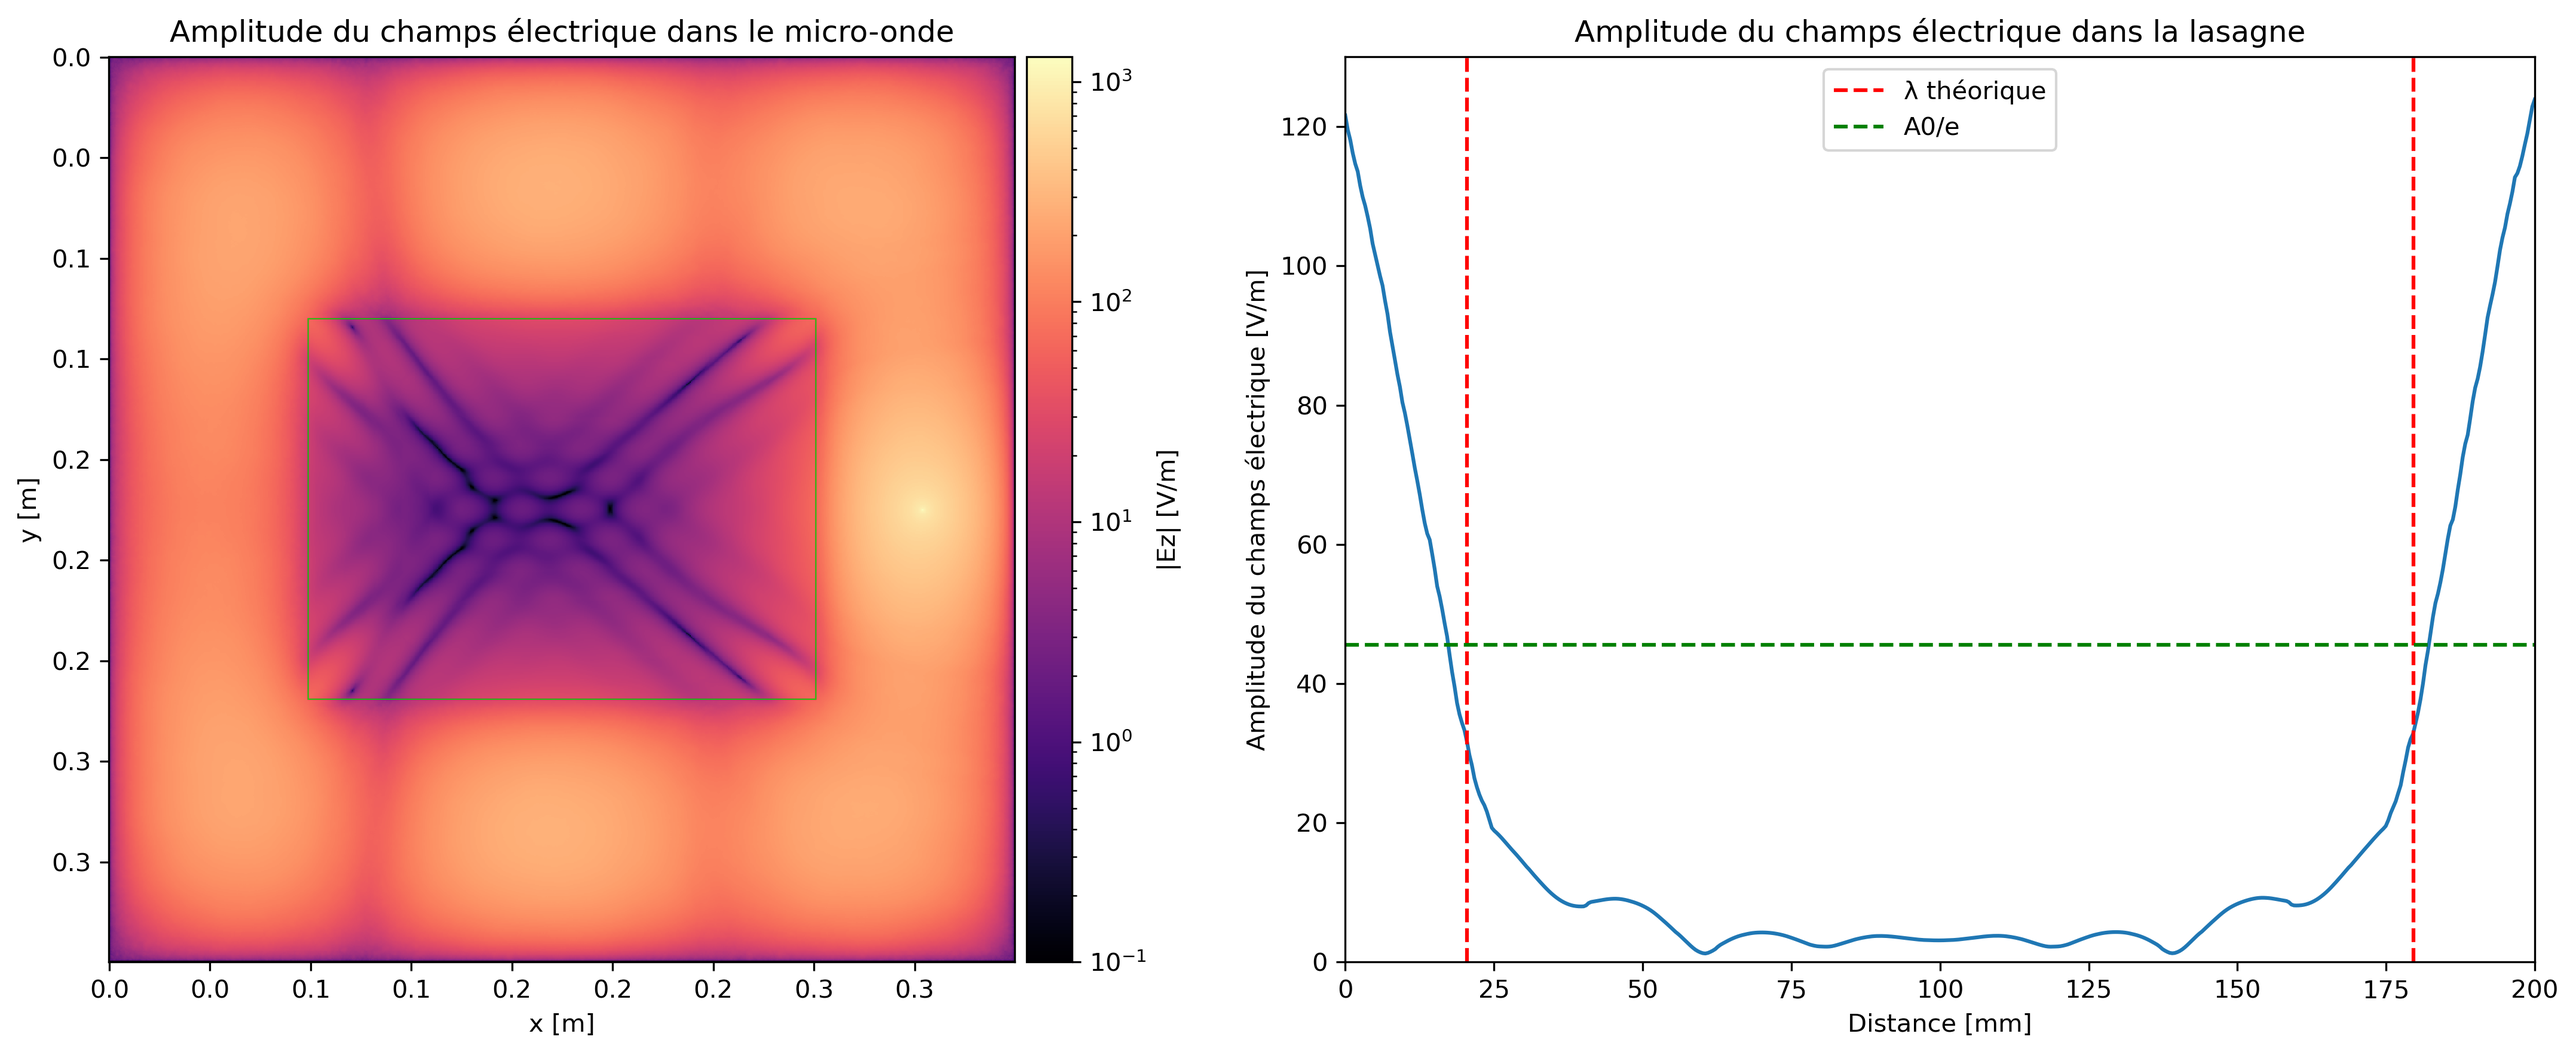
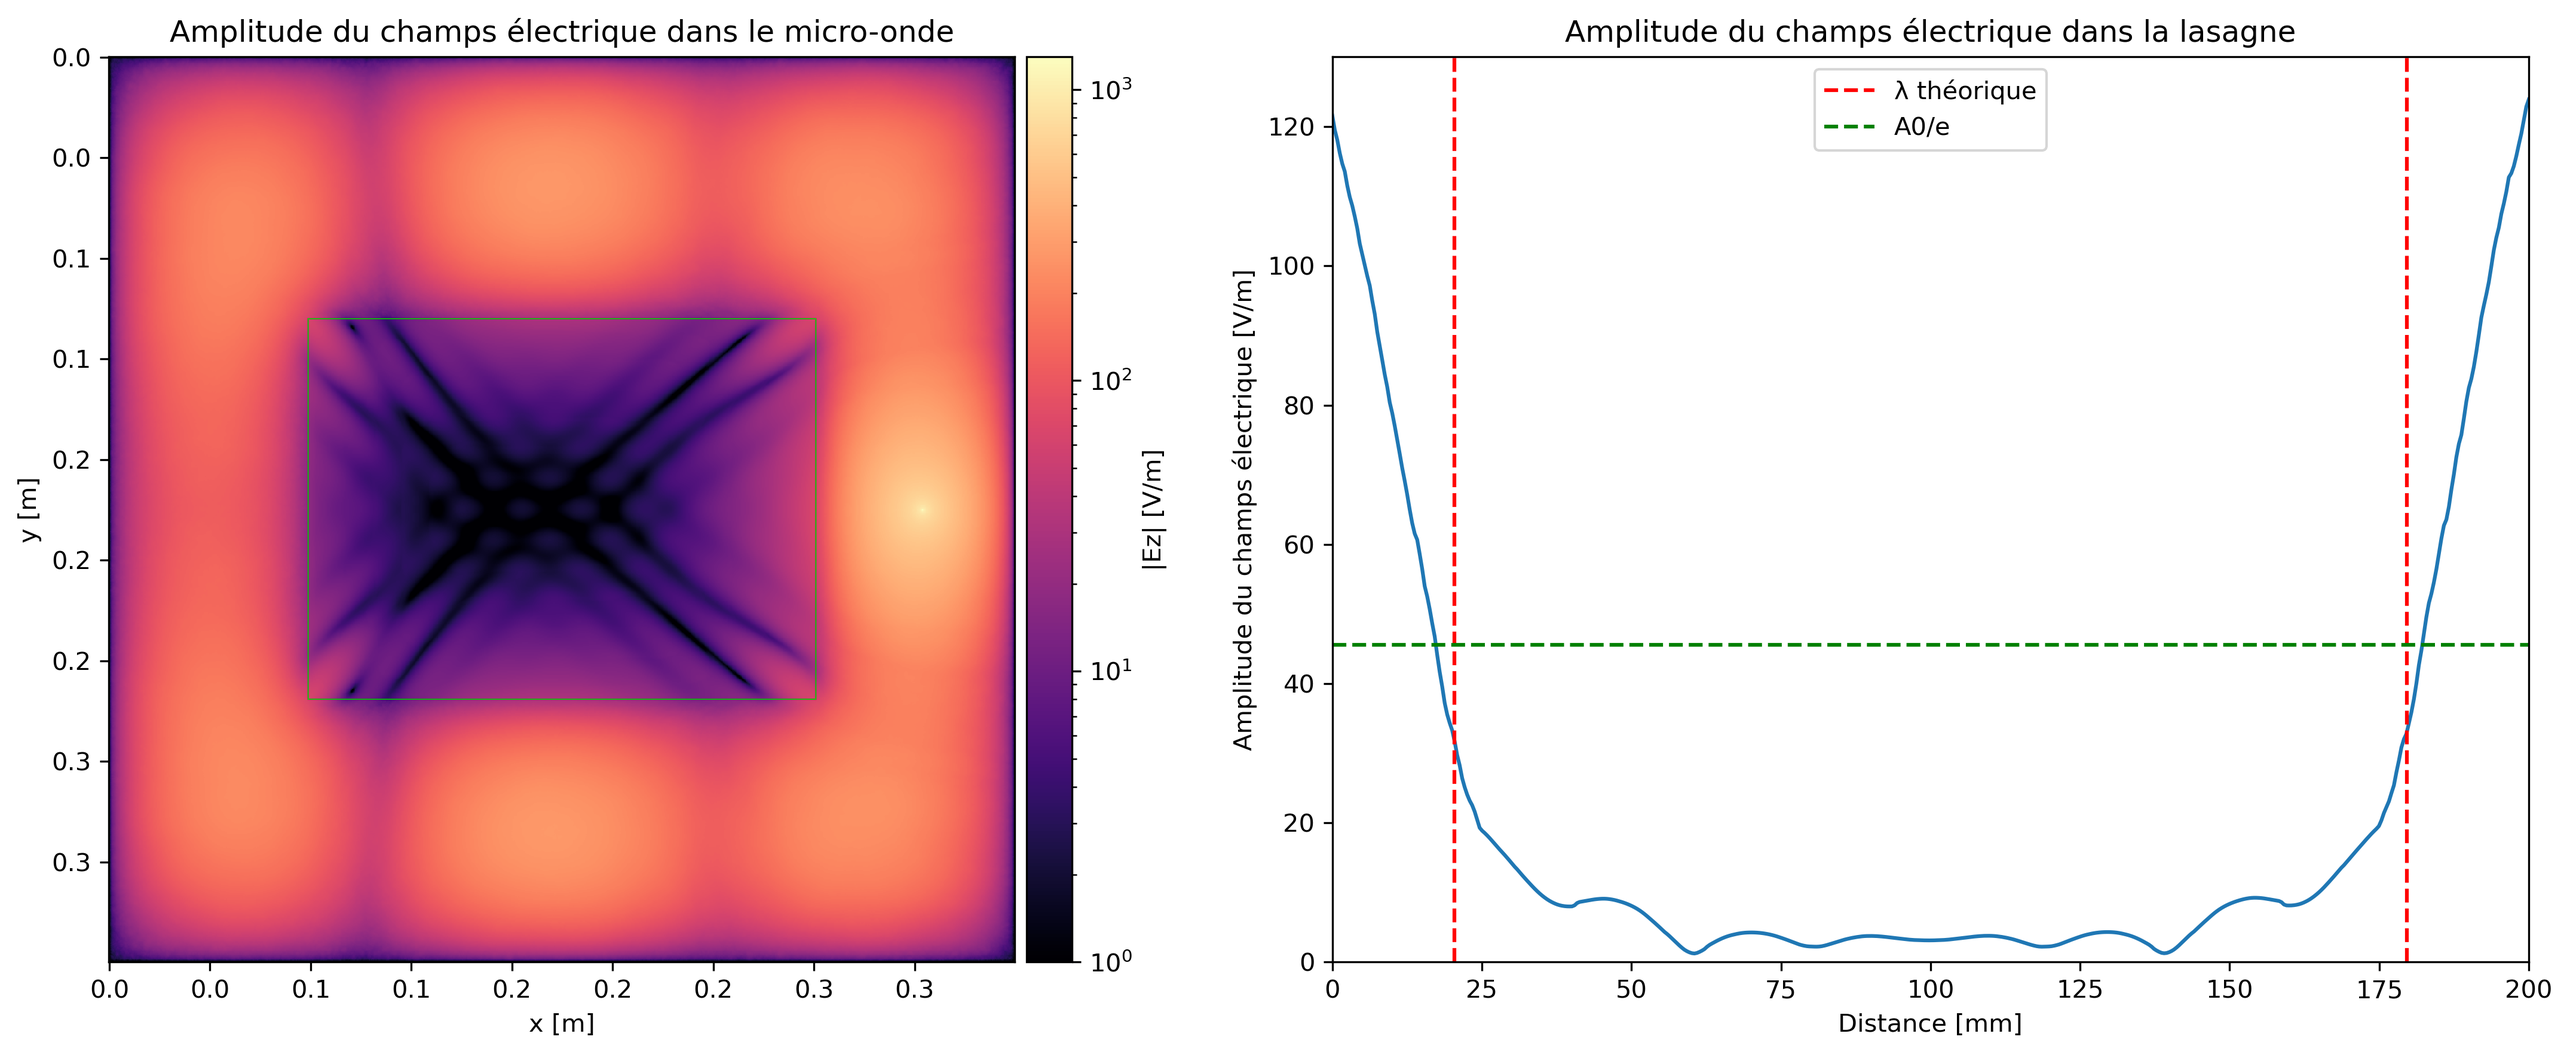
changed the minmium amplitude color

diff --git a/2D/simu_chap_7_micro_wave_uniform_lasagna.py b/2D/simu_chap_7_micro_wave_uniform_lasagna.py
@@ -29,7 +29,7 @@ from define_lasagna_microwave import initialize_mixed_lasagna
     mixed_lasagna_conductivity,
 ) = initialize_mixed_lasagna()
 SLICE_POSITION = microwave_side_length / 2 + LASAGNA_WITH / 4
-
+MIN_COLOR_VALUE = 1
 
 # initialize the arrays
 E0 = np.zeros((M, M), dtype=np.float32)
@@ -66,7 +66,7 @@ im, E_amplitude = compute_electric_field_amplitude_and_plot(
     source,
     local_conductivity=local_conductivity,
     local_rel_permittivity=local_relative_permittivity,
-    min_color_value=1e-1,
+    min_color_value=MIN_COLOR_VALUE,
     show_material=True,
 )
 
